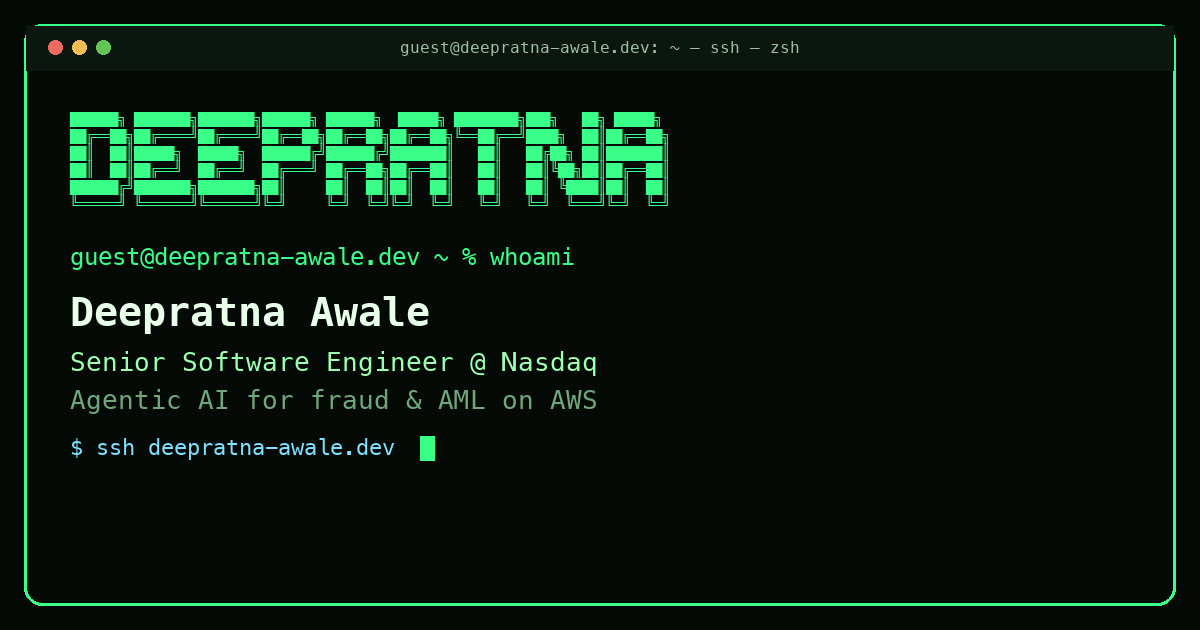
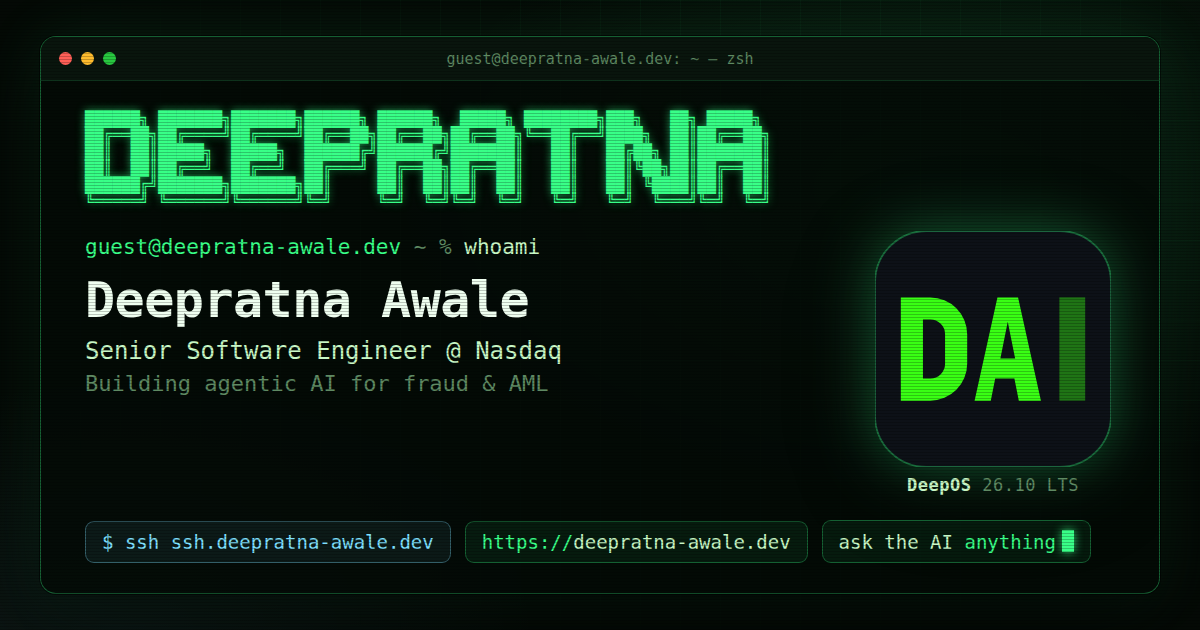
Redesign the social preview image and add a GitHub repo preview (#51)
The link preview now shows the DeepOS terminal with the DA logo, the
correct SSH host and the site address. The page also declares the image
size and alt text and sets twitter:image explicitly. docs/social holds
the HTML source and a render script for both images.

Claude-Session: https://claude.ai/code/session_01RQzBiFAYQudSx7YpXhmn7a

diff --git a/docs/social/og.html b/docs/social/og.html
@@ -1,0 +1,68 @@
+<!doctype html>
+<!-- Source of public/og.png and repo-preview.png. Edit, then run render.mjs (see its header). -->
+<html><head><meta charset="utf-8">
+<link href="https://fonts.googleapis.com/css2?family=JetBrains+Mono:wght@400;500;700;800&display=block" rel="stylesheet">
+<style>
+:root{--w:1200px;--h:630px;--bg:#050a06;--fg:#c8f7c5;--muted:#5f8a63;--accent:#39ff88;--neon:#39ff14;--link:#7fe0ff}
+*{box-sizing:border-box;margin:0;padding:0}
+html,body{width:var(--w);height:var(--h);overflow:hidden;background:var(--bg)}
+body{font-family:'JetBrains Mono',monospace;color:var(--fg);position:relative;
+  background:
+    radial-gradient(900px 500px at 78% 30%, rgba(57,255,136,.13), transparent 60%),
+    radial-gradient(700px 420px at 10% 100%, rgba(127,224,255,.07), transparent 60%),
+    var(--bg)}
+body::before{content:'';position:absolute;inset:0;
+  background-image:linear-gradient(rgba(57,255,136,.05) 1px,transparent 1px),linear-gradient(90deg,rgba(57,255,136,.05) 1px,transparent 1px);
+  background-size:40px 40px;mask-image:radial-gradient(ellipse at 60% 40%,#000 30%,transparent 80%)}
+body::after{content:'';position:absolute;inset:0;pointer-events:none;
+  background:repeating-linear-gradient(0deg,rgba(0,0,0,.22) 0 1px,transparent 1px 3px)}
+.win{position:absolute;left:40px;top:36px;right:40px;bottom:36px;border-radius:16px;
+  background:rgba(3,10,6,.86);border:1.5px solid rgba(57,255,136,.35);
+  box-shadow:0 0 0 1px rgba(0,0,0,.6),0 30px 80px rgba(0,0,0,.6),0 0 60px rgba(57,255,136,.12);overflow:hidden}
+.bar{height:44px;display:flex;align-items:center;padding:0 18px;background:rgba(10,22,14,.95);border-bottom:1px solid rgba(57,255,136,.18);position:relative}
+.dots{display:flex;gap:9px}.dots i{width:13px;height:13px;border-radius:50%;display:block}
+.dots i:nth-child(1){background:#ff5f57}.dots i:nth-child(2){background:#febc2e}.dots i:nth-child(3){background:#28c840}
+.title{position:absolute;left:0;right:0;text-align:center;font-size:15px;color:var(--muted)}
+.body{padding:30px 44px 0;position:relative;height:calc(100% - 44px)}
+.logo{font-size:15.2px;line-height:1.08;color:var(--accent);white-space:pre;text-shadow:0 0 8px rgba(57,255,136,.55);letter-spacing:0}
+.prompt{margin-top:26px;font-size:21px;color:var(--muted)}
+.prompt b{color:var(--accent);font-weight:500}.prompt span{color:var(--fg)}
+.name{margin-top:12px;font-size:50px;font-weight:800;color:#effff0;letter-spacing:-.5px}
+.role{margin-top:8px;font-size:24px;color:var(--fg)}
+.tag{margin-top:6px;font-size:22px;color:var(--muted)}
+.chips{position:absolute;left:44px;right:44px;bottom:30px;display:flex;gap:14px;align-items:center}
+.chip{font-size:19px;padding:9px 16px;border-radius:9px;border:1px solid rgba(57,255,136,.3);background:rgba(57,255,136,.07);color:var(--fg)}
+.chip em{font-style:normal;color:var(--accent)}
+.chip.ssh{color:var(--link);border-color:rgba(127,224,255,.35);background:rgba(127,224,255,.07)}
+.cur{display:inline-block;width:12px;height:22px;background:var(--accent);vertical-align:-3px;margin-left:6px;box-shadow:0 0 10px rgba(57,255,136,.8)}
+.tile{position:absolute;right:48px;top:150px;width:236px;height:236px;filter:drop-shadow(0 0 28px rgba(57,255,140,.35)) drop-shadow(0 18px 30px rgba(0,0,0,.6))}
+.os{position:absolute;right:48px;top:394px;width:236px;text-align:center;font-size:17px;color:var(--muted);letter-spacing:.5px}
+.os b{color:var(--fg);font-weight:700}
+</style></head><body>
+<div class="win">
+  <div class="bar"><div class="dots"><i></i><i></i><i></i></div><div class="title">guest@deepratna-awale.dev: ~ — zsh</div></div>
+  <div class="body">
+<div class="logo">██████╗ ███████╗███████╗██████╗ ██████╗  █████╗ ████████╗███╗   ██╗ █████╗
+██╔══██╗██╔════╝██╔════╝██╔══██╗██╔══██╗██╔══██╗╚══██╔══╝████╗  ██║██╔══██╗
+██║  ██║█████╗  █████╗  ██████╔╝██████╔╝███████║   ██║   ██╔██╗ ██║███████║
+██║  ██║██╔══╝  ██╔══╝  ██╔═══╝ ██╔══██╗██╔══██║   ██║   ██║╚██╗██║██╔══██║
+██████╔╝███████╗███████╗██║     ██║  ██║██║  ██║   ██║   ██║ ╚████║██║  ██║
+╚═════╝ ╚══════╝╚══════╝╚═╝     ╚═╝  ╚═╝╚═╝  ╚═╝   ╚═╝   ╚═╝  ╚═══╝╚═╝  ╚═╝</div>
+    <div class="prompt"><b>guest@deepratna-awale.dev</b> ~ % <span>whoami</span></div>
+    <div class="name">Deepratna Awale</div>
+    <div class="role">Senior Software Engineer @ Nasdaq</div>
+    <div class="tag">Building agentic AI for fraud &amp; AML</div>
+    <svg class="tile" viewBox="0 0 32 32"><rect width="32" height="32" rx="7" fill="#0d1117" stroke="rgba(57,255,136,.35)" stroke-width=".25"/>
+      <path fill="#39ff14" fill-rule="evenodd" d="M3.5 9h4a5 5 0 0 1 5 5v4a5 5 0 0 1-5 5h-4zM6.5 12v8h1a2 2 0 0 0 2-2v-4a2 2 0 0 0-2-2z"/>
+      <path fill="#39ff14" fill-rule="evenodd" d="M13.5 23l3.1-14h2.8l3.1 14h-3l-.6-3h-2.6l-.6 3zM17 17.3h2l-1-5z"/>
+      <rect x="25" y="9" width="3.5" height="14" fill="#39ff14" opacity=".42"/></svg>
+    <div class="os"><b>DeepOS</b> 26.10 LTS</div>
+    <div class="chips">
+      <div class="chip ssh">$ ssh ssh.deepratna-awale.dev</div>
+      <div class="chip"><em>https://</em>deepratna-awale.dev</div>
+      <div class="chip" id="c3">ask the AI <em>anything</em><span class="cur"></span></div>
+    </div>
+  </div>
+</div>
+<script>if (location.hash === "#repo") { const s = document.documentElement.style; s.setProperty("--w", "1280px"); s.setProperty("--h", "640px"); document.querySelector(".title").textContent = "deepratna-awale/terminal-portfolio — zsh"; document.getElementById("c3").innerHTML = "React · Terraform · <em>AWS</em><span class=\"cur\"></span>" }</script>
+</body></html>

diff --git a/index.html b/index.html
@@ -16,7 +16,12 @@
     <meta property="og:title" content="{{name}} | ~/portfolio" />
     <meta property="og:description" content="{{share_description}}" />
     <meta property="og:image" content="{{website}}/og.png" />
+    <meta property="og:image:width" content="1200" />
+    <meta property="og:image:height" content="630" />
+    <meta property="og:image:alt" content="{{name}}'s terminal portfolio" />
     <meta name="twitter:card" content="summary_large_image" />
+    <meta name="twitter:image" content="{{website}}/og.png" />
+    <meta name="twitter:image:alt" content="{{name}}'s terminal portfolio" />
     <link rel="canonical" href="{{website}}/" />
     <link rel="preconnect" href="https://fonts.googleapis.com" />
     <link rel="preconnect" href="https://fonts.gstatic.com" crossorigin />

diff --git a/AGENTS.md b/AGENTS.md
@@ -64,6 +64,7 @@ client, server and Vite config share it). Its tests are in
 | `server/about.mjs` | Server view of ABOUT.md: profile, featured repos, assistant rules and facts |
 | `server/bedrock.mjs`, `s3.mjs`, `rateLimit.mjs` | Bedrock Converse client, S3 SigV4 signing, rate limits |
 | `scripts/prerender.mjs` | Writes `dist/gui.html` from the SSR build |
+| `docs/social/` | Link preview source (`og.html`) and `render.mjs`, which writes `public/og.png` and the GitHub social preview `repo-preview.png` |
 | `vite.config.ts` | Fills `index.html` tokens and generates favicon, robots.txt and sitemap.xml from ABOUT.md |
 | `src/shell/runner.ts` | Runs one typed line (pipes, commands, typo hints, assistant); shared by both terminals |
 | `ssh/main.ts` | SSH server (ssh2): anonymous login, connection limits, the fetch shim that sends API calls to the site |

diff --git a/README.md b/README.md
@@ -423,7 +423,9 @@ extra background. The assistant also reads every visible section, so it answers
 from the same facts the site shows.
 
 **Media.** Replace `public/media/` (résumé, profile and architecture images,
-project thumbnails named `<repository>.jpg`), `public/og.png` (link preview),
+project thumbnails named `<repository>.jpg`), `public/og.png` (link preview,
+rendered from `docs/social/og.html` with `docs/social/render.mjs`, which also
+writes `docs/social/repo-preview.png` for the GitHub social preview),
 `public/apple-touch-icon.png` and `public/media/golden-dark.jpg` (desktop
 background). The favicon, `robots.txt` and `sitemap.xml` are generated from
 ABOUT.md at build time.
